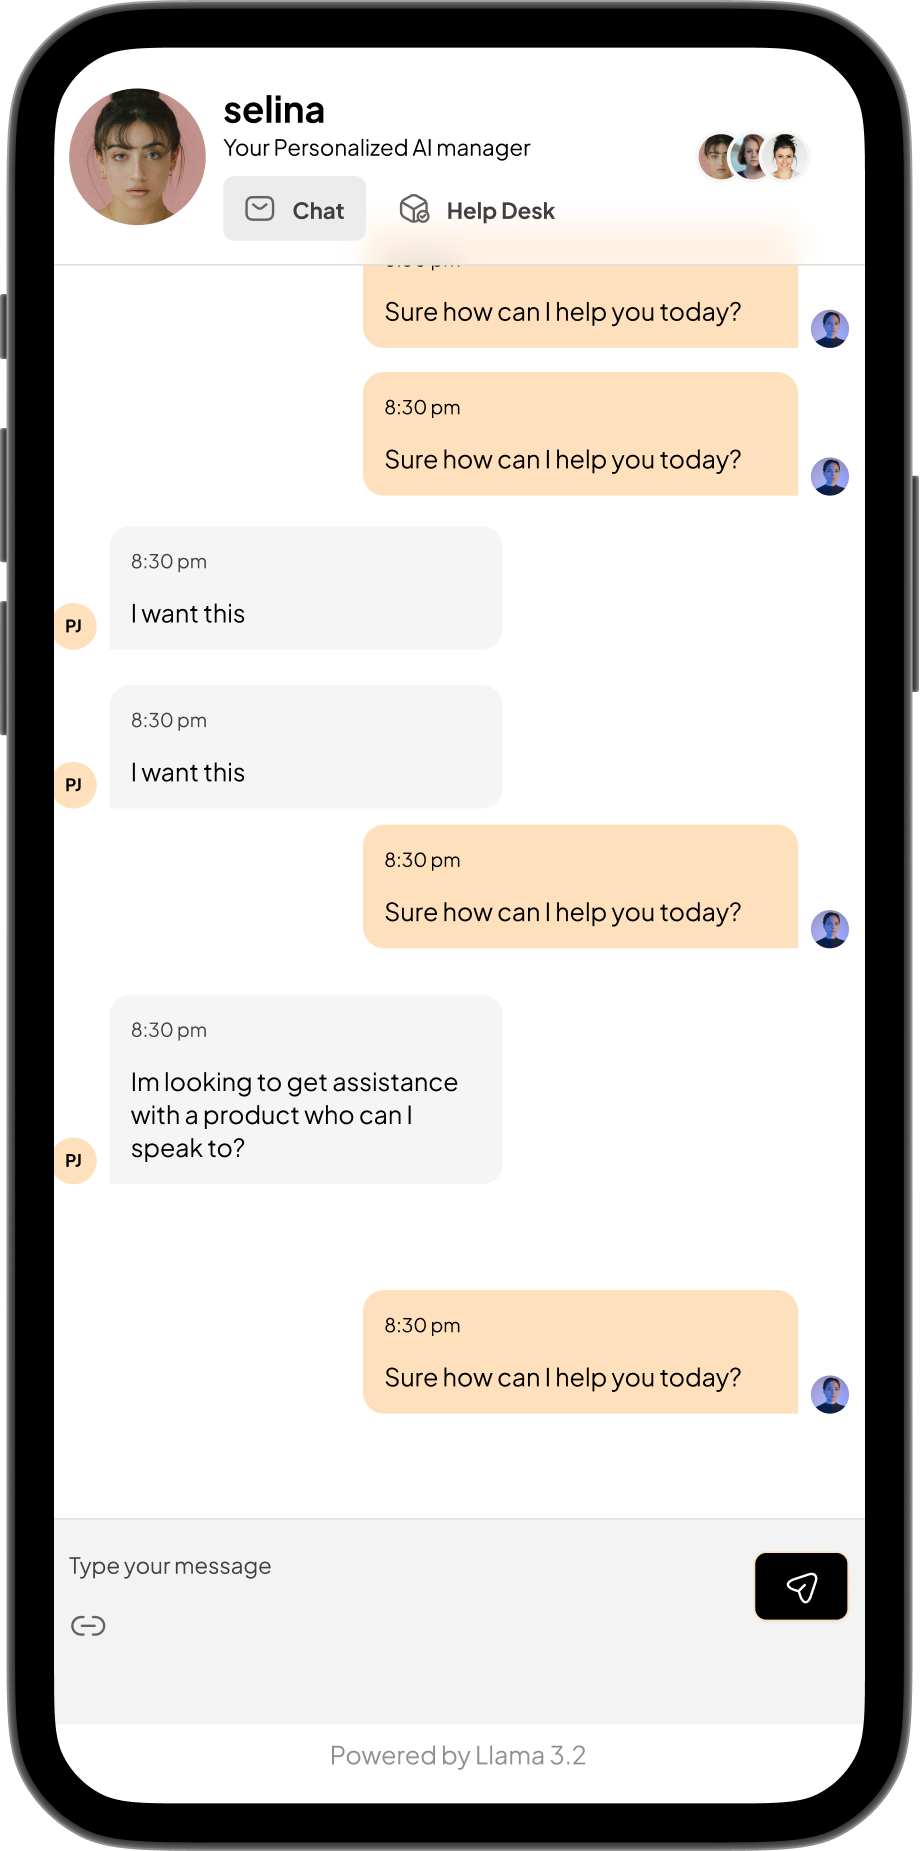
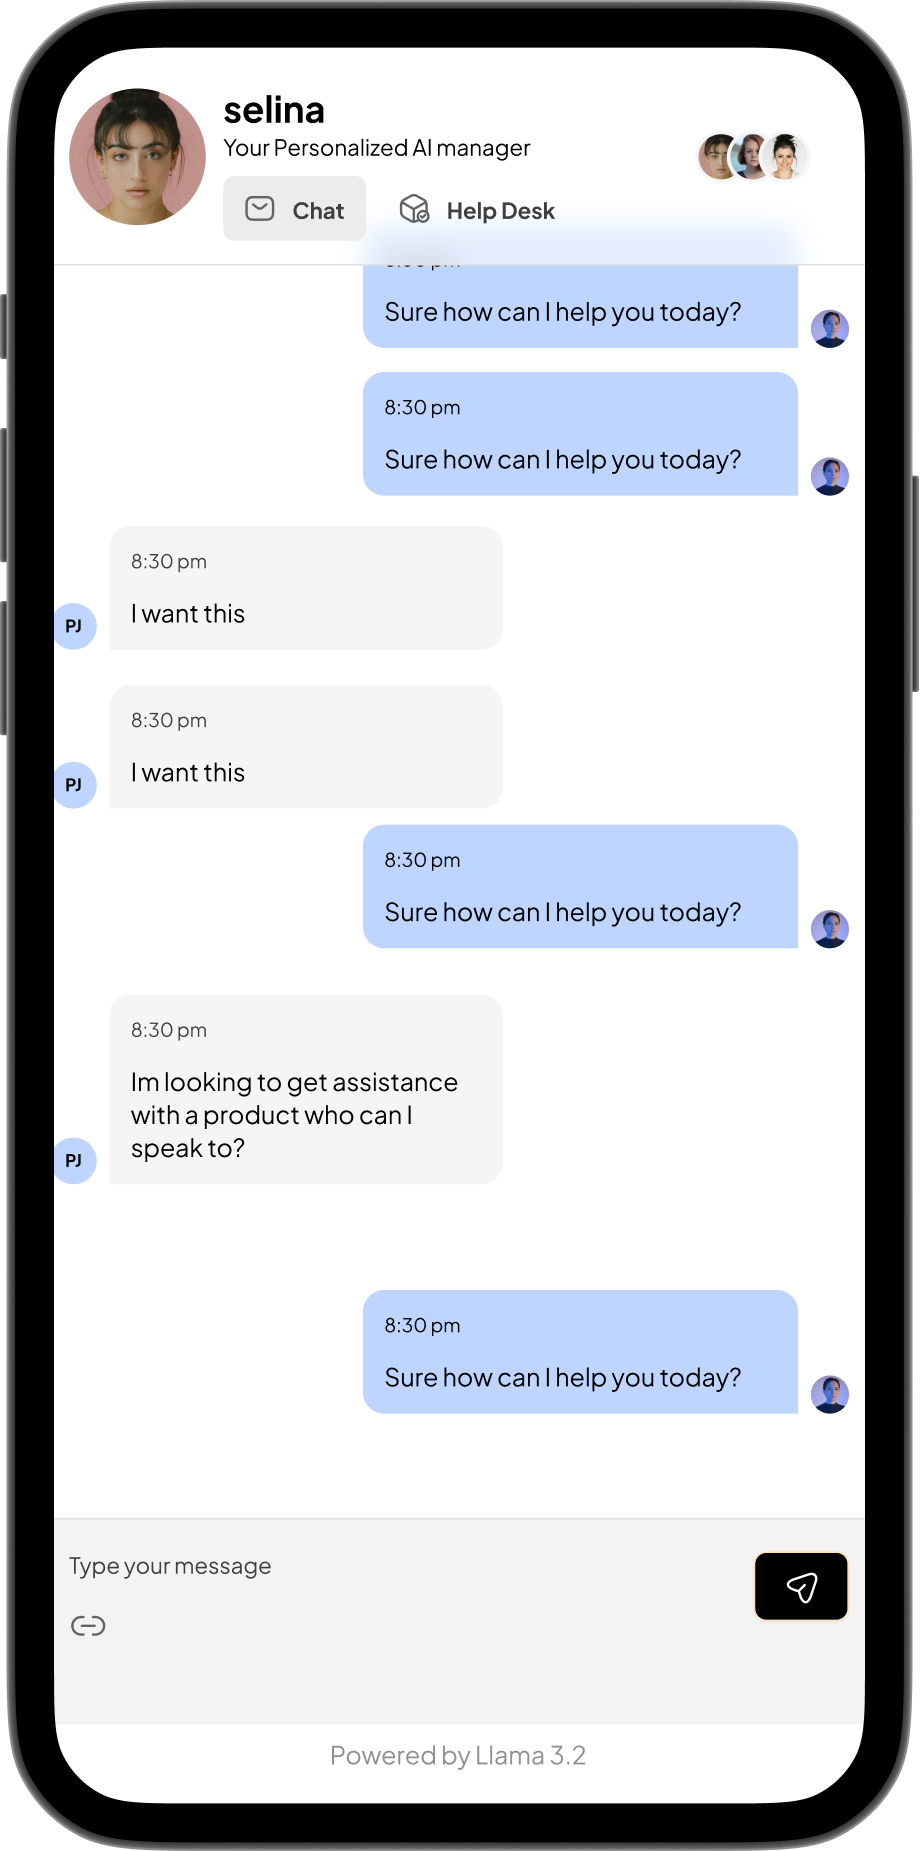
PATCH: UI v2.0 updated

diff --git a/src/app/page.tsx b/src/app/page.tsx
@@ -33,11 +33,11 @@ export default async function Home() {
       <NavBar />
       <section>
         <div className="flex items-center justify-center flex-col mt-[80px] gap-4 ">
-          <span className="text-orange bg-orange/20 px-4 py-2 rounded-full text-sm">
+          <span className="text-white bg-blue-500 px-4 py-2 rounded-full text-sm">
             An AI powered Marketing sales assistant chatbot
           </span>
           <Image
-            src="/images/Selina-AI.png"
+            src="/images/NEW-LOGO.png"
             width={500}
             height={100}
             alt="Logo"
@@ -47,7 +47,7 @@ export default async function Home() {
             Your AI powered sales assistant! Embed Selina AI into any website
             with just a snippet of code!
           </p>
-          <Button className="bg-orange font-bold text-white px-4">
+          <Button className="bg-blue-500 font-bold text-white px-4">
             Start For Free
           </Button>
           <Image
@@ -75,7 +75,7 @@ export default async function Home() {
             })}
           >
             <CardHeader>
-              <CardTitle className="text-orange">{card.title}</CardTitle>
+              <CardTitle className="text-blue-500">{card.title}</CardTitle>
               <CardDescription>
                 {pricingCards.find((c) => c.title === card.title)?.description}
               </CardDescription>
@@ -97,7 +97,7 @@ export default async function Home() {
               </div>
               <Link
                 href={`/dashbord?plan=${card.title}`}
-                className="bg-[#f3d299] border-orange border-2 p-2 w-full text-center font-bold rounded-md"
+                className="bg-[#99def3] border-blue-500 border-2 p-2 w-full text-center font-bold rounded-md"
               >
                 Get Started
               </Link>

diff --git a/src/icons/menu-logo.tsx b/src/icons/menu-logo.tsx
@@ -1,8 +1,8 @@
-import React from 'react'
+import React from "react";
 
 type MenuLogoProps = {
-  onClick(): void
-}
+  onClick(): void;
+};
 
 export const MenuLogo = ({ onClick }: MenuLogoProps) => {
   return (
@@ -18,14 +18,14 @@ export const MenuLogo = ({ onClick }: MenuLogoProps) => {
         fill-rule="evenodd"
         clip-rule="evenodd"
         d="M0 3.375C0 1.51104 1.51104 0 3.375 0H105.875C107.739 0 109.25 1.51104 109.25 3.375V94.95C109.25 96.814 107.739 98.325 105.875 98.325H3.375C1.51104 98.325 0 96.814 0 94.95V3.375ZM38.2375 16.3875C38.2375 19.4044 35.7919 21.85 32.775 21.85C29.7581 21.85 27.3125 19.4044 27.3125 16.3875C27.3125 13.3706 29.7581 10.925 32.775 10.925C35.7919 10.925 38.2375 13.3706 38.2375 16.3875ZM76.475 21.85C79.4919 21.85 81.9375 19.4044 81.9375 16.3875C81.9375 13.3706 79.4919 10.925 76.475 10.925C73.4581 10.925 71.0125 13.3706 71.0125 16.3875C71.0125 19.4044 73.4581 21.85 76.475 21.85Z"
-        fill="#FFC90C"
+        fill="#0CEBFF"
       />
       <rect
         y="27.3125"
         width="109.25"
         height="81.9375"
         rx="3.375"
-        fill="#FFA947"
+        fill="#47C8FF"
       />
       <path
         d="M38.2375 38.2375C44.1966 50.2938 62.0739 55.1163 71.0126 38.2375"
@@ -34,5 +34,5 @@ export const MenuLogo = ({ onClick }: MenuLogoProps) => {
         stroke-linecap="round"
       />
     </svg>
-  )
-}
+  );
+};

diff --git a/src/components/navbar/index.tsx b/src/components/navbar/index.tsx
@@ -26,7 +26,7 @@ function NavBar() {
       </ul>
       <Link
         href="/dashboard"
-        className="bg-orange px-4 py-2 rounded-sm text-white"
+        className="bg-blue-500 px-4 py-2 rounded-sm text-white"
       >
         Free Trial
       </Link>
